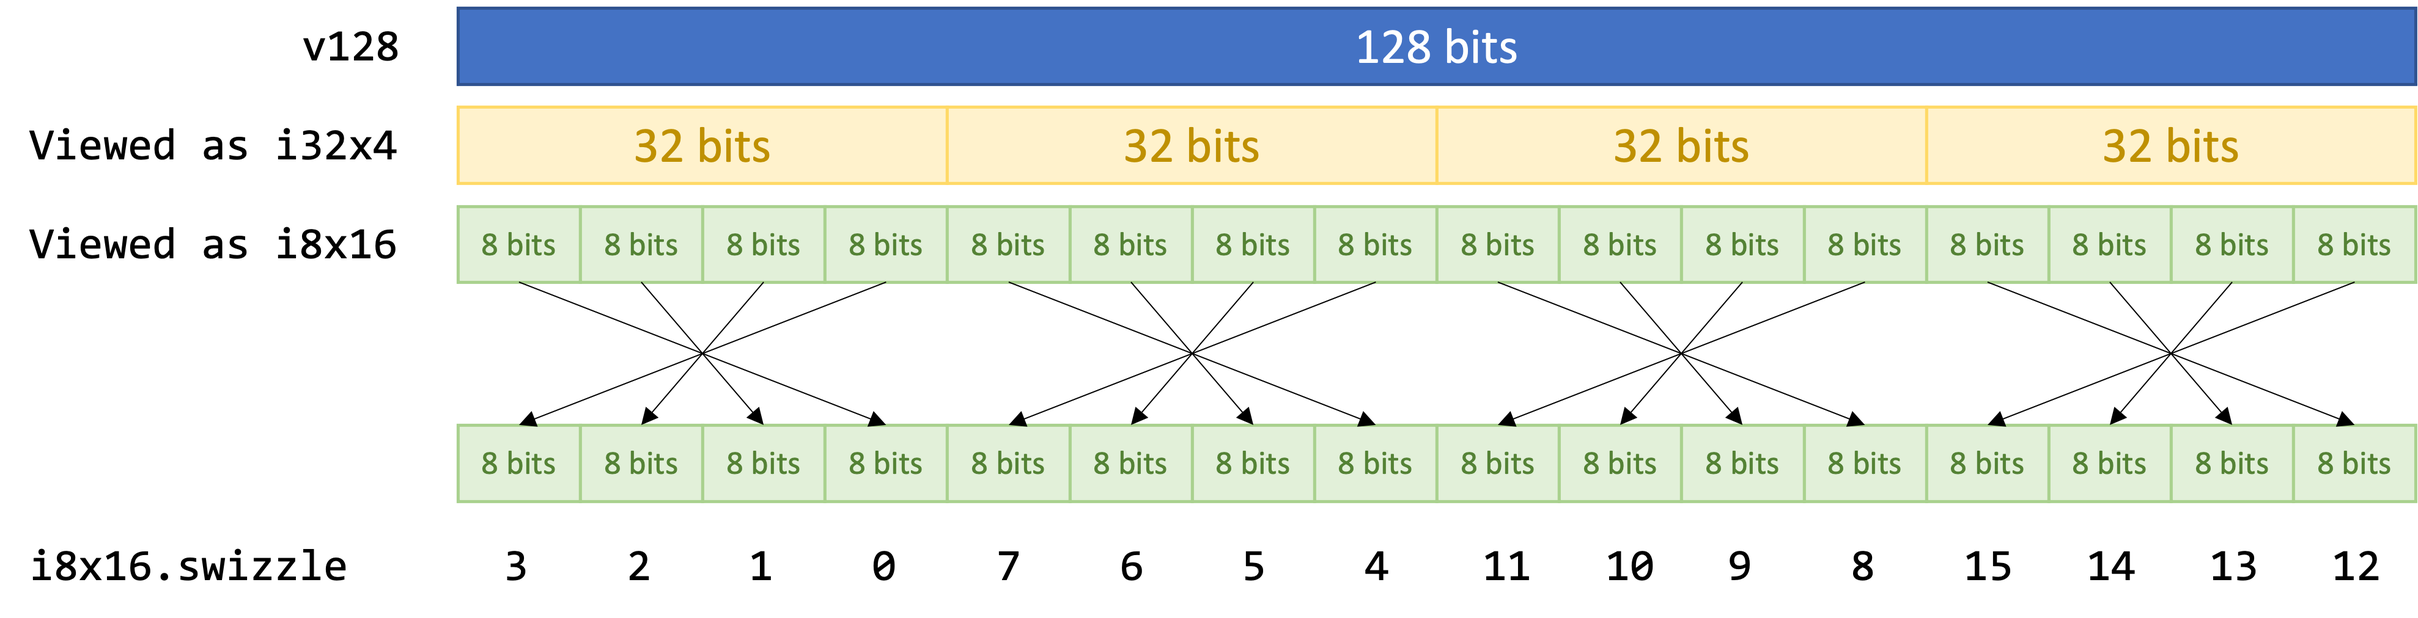
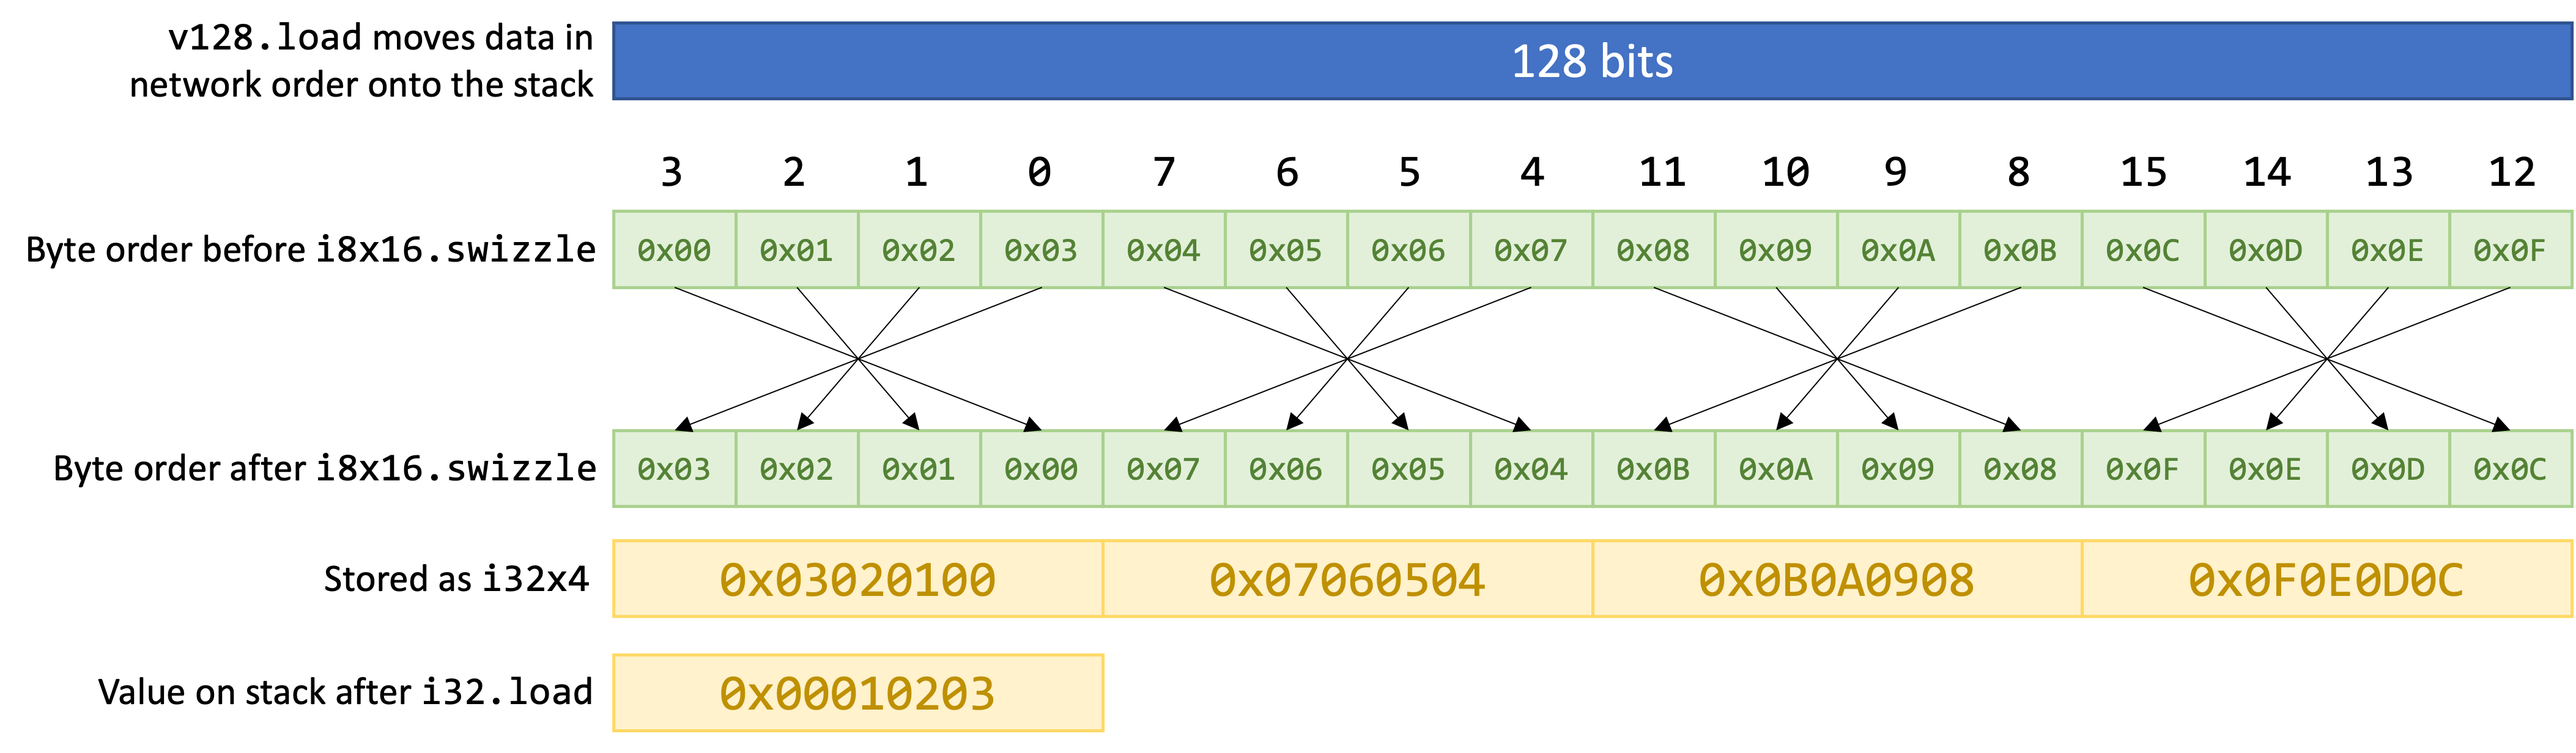
Update endianness README

diff --git a/endianness.md b/endianness.md
@@ -60,7 +60,7 @@ In the loop where the raw binary file data is copied from the message block into
       (i32.add (global.get $MSG_SCHED_OFFSET) (local.get $offset))
       (i8x16.swizzle
         (v128.load (i32.add (local.get $blk_ptr) (local.get $ptr)))  ;; 4 words of raw binary in network byte order
-        (v128.const i8x16 3 2 1 0 7 6 5 4 11 10 9 8 15 14 13 12)     ;; Reverse i32 bytes to preserve network order
+        (v128.const i8x16 3 2 1 0 7 6 5 4 11 10 9 8 15 14 13 12)     ;; Rearrange bytes into this order of indices
       )
     )
 
@@ -71,7 +71,11 @@ In the loop where the raw binary file data is copied from the message block into
 
 Notice that we are now using instructions belonging to a different dataype: `v128`, not `i32`.
 
-Since we know that 4, `i32` values occupy a contiguous block of memory, we can pick them up as if they were a single block of 128 bits (a `v128` vector).
-Then, in order to swap the endiannes, we use the instruction `i8x16.swizzle` which looks at this value as if it were a vector of 16, 8-bit bytes, then rearranges (or swizzles) the byte order according to the supplied list of indicies.
+Since we know that 4, `i32` values occupy a contiguous block of memory, we can load them onto the stack as if they were a single block of 128 bits (a `v128` vector).
+Then, using `i8x16.swizzle`, we can swap the endianness.
+
+This instruction treats the 128-bit block as if it were a vector of 16, 8-bit bytes and rearranges (or swizzles) the byte order according to the supplied list of indices.
 
 ![Swap Endianness using i8x16.shuffle](./img/i8x16.swizzle.png)
+
+Then when the same block of bytes is read as 4 `i32`s, it will be assumed that they are stored in little-endian byte order, and the bytes will be reversed (put back into network order) before loading onto the stack.

diff --git a/README.md b/README.md
@@ -8,7 +8,7 @@ I'm pretty pleased with the result because after optimisation, the WASM binary i
 
 ```bash
 16:00 $ ls -al ./bin/sha256*
--rw-r--r--   1 chris  staff  1082  1 Feb 16:39 sha256.wasm
+-rw-r--r--   1 chris  staff  1085  1 Feb 16:39 sha256.wasm
 -rw-r--r--   1 chris  staff   977  1 Feb 16:44 sha256_opt.wasm
 ```
 
